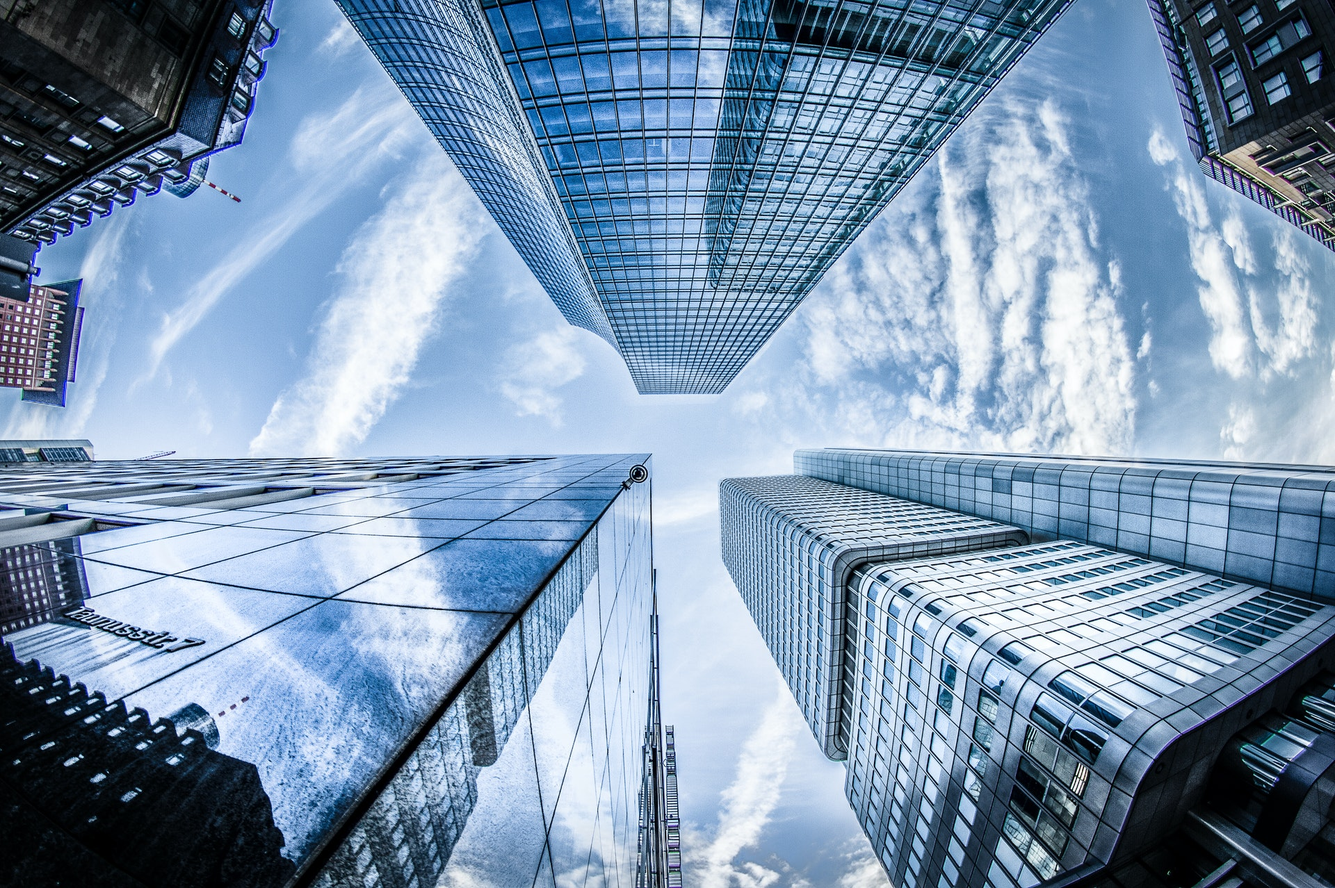
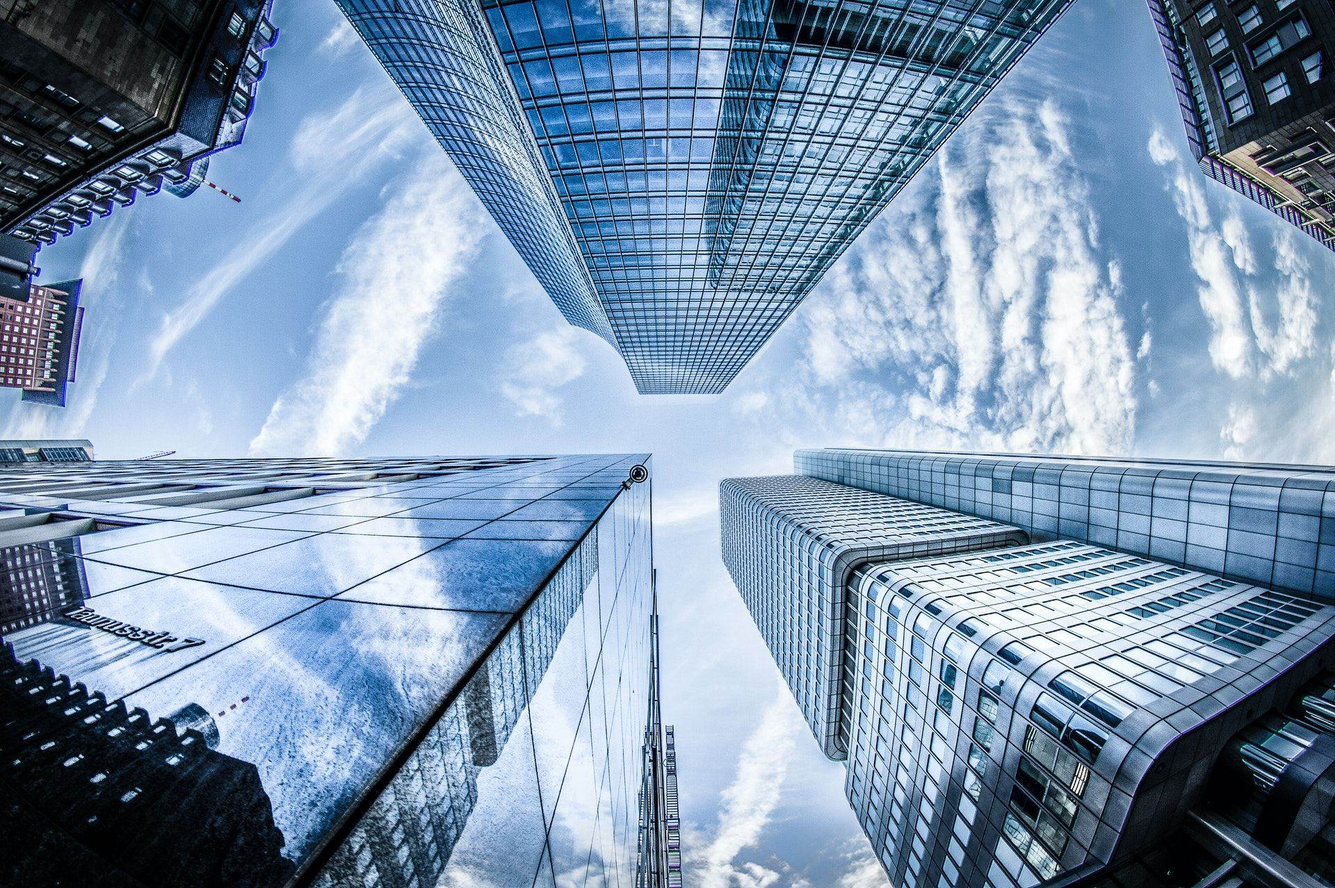
Comprimir imágenes: hero, nosotros, construccion2 (PNG→JPG), remodelacion

diff --git a/index.html b/index.html
@@ -257,7 +257,7 @@
 
                 <article class="proyecto" data-animar="zoom-in">
                     <div class="proyecto__imagen">
-                        <img src="img/construccion2.png" alt="Losa aligerada" loading="lazy">
+                        <img src="img/construccion2.jpg" alt="Losa aligerada" loading="lazy">
                         <span class="proyecto__fase proyecto__fase--construccion">Construcción</span>
                     </div>
                     <div class="proyecto__info">
